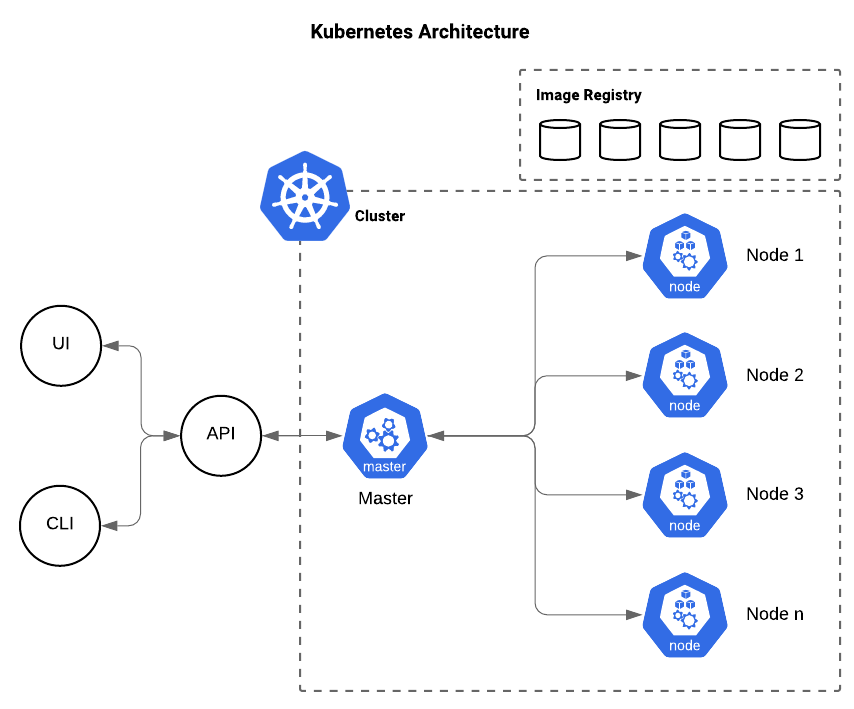
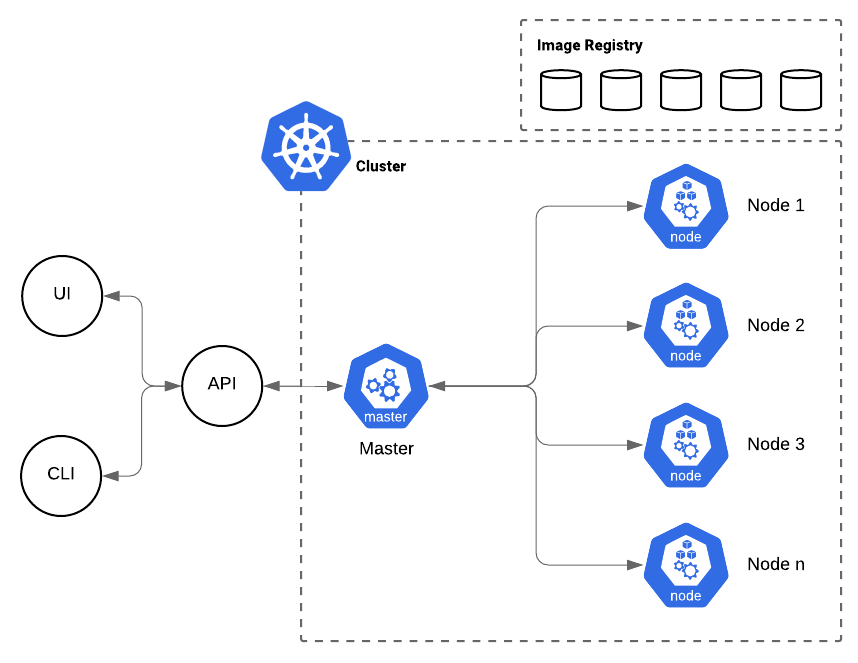
Update images and fix a few typos

diff --git a/manuscript/1-intro.md b/manuscript/1-intro.md
@@ -1,6 +1,6 @@
 # An introduction to Kubernetes
 
-This document provides you with an introduction to Kubernetes, it will introduce you to the components, explain how they fit together, introduce you to many of the core resource concepts and then provide you with a tutorial you can follow through yourself to get a grasp on theses concepts.
+This guide provides you with an introduction to Kubernetes, it will introduce you to the components, explain how they fit together, introduce you to many of the core resource concepts and then provide you with a tutorial you can follow through yourself to get a grasp on theses concepts.
 
 Kubernetes, often abbreviated as K8S, is an orchestration service, designed by Google, for managing distributed systems. Although you can run it on bare metal, the preferred way is using one of the various cloud providers; Kubernetes will take care of provisioning hardware, allowing you to use all available hardware resources as if it were one giant computer. By specifying the resources required by your application Kubernetes will take care of scheduling them to run on hardware with the appropriate resources available.
 
@@ -32,17 +32,17 @@ The architecture of the control plane is shown below.
 
 ![etcd Icon](resources/images/icons/infrastructure_components/etcd-128.png)
 
-The configuration of the cluster is stored as *resource definitions*, this configuration is stored in an etcd cluster. etcd is a strong consistency, high availability, key-value store; it takes care of replicating the state amongst all members of the cluster and resolving conflicts between them. It stored the *desired state* of the cluster and is the *source of truth*.
+The configuration of the cluster is stored as *resource definitions*, this configuration is stored in an etcd cluster. etcd is a strong consistency, high availability, key-value store; it takes care of replicating the state amongst all members of the cluster and resolving conflicts between them. It stores the *desired state* of the cluster and is the *source of truth*.
 
 Although it is a central component of the cluster, you as the operator, and other processes, will never talk to etcd directly. Only one component talks to etcd, that is the API Server.
 
-etcd is not specific to Kubernetes, you can use it for other things (although not the instance used for Kubernetes), so you can [find out more about it on the website](https://etcd.io).
+etcd is not specific to Kubernetes, you can use it for other things (although you should avoid reusing the instance used for Kubernetes), so you can [find out more about it on the website](https://etcd.io).
 
 #### API Server
 
 ![API Server Icon](resources/images/icons/control_plane_components/api-128.png)
 
-The *API Server* is the internal event router for Kubernetes. It is the only component which can directly access *etcd* to store and retrieve resource definitions. It is also the proxy between the command line interface, *kubectl* and the cluster. The CLI talks to the *API Server* exclusively, as do all the other components. The *API Server* simply returns the information from, and stores information in *etcd*; it does nothing else, actually working out what to do is down to other components. It is a stateless component so scales well, typically it would be deployed on the same servers as *etcd*. The *API Server* accepts requests in JSON format.
+The *API Server* is the internal event router for Kubernetes. It is the only component which can directly access *etcd* to store and retrieve resource definitions. It is also the proxy between the command line interface, *kubectl*, and the cluster. The CLI talks to the *API Server* exclusively, as do all the other components. The *API Server* simply returns the information from, and stores information in *etcd*; it does nothing else, actually working out what to do is down to other components. It is a stateless component so scales well, typically it would be deployed on the same servers as *etcd*. The *API Server* accepts requests in JSON format.
 
 #### Scheduler
 
@@ -56,7 +56,7 @@ The *Scheduler* should be deployed redundantly on all the control plane *Nodes*,
 
 ![Kube-Controller Manager Icon](resources/images/icons/control_plane_components/c-m-128.png)
 
-This is the main binary which was mentioned earlier, it is made up of a series of *Controllers*; although they can actually be run seperately, they are typically run as a single binary. While the *Scheduler* takes care of placing *Pods*, the *Controllers* take care of almost everything else. There are a variety of *Controllers*, typically one for each resource, such as the *Deployment Controller*, *StatefulSet Controller*, *Namespace Controller*, *ServiceAccount Controller*, *Job Controller* and a *Pod Garbage Collector Controller*. These are just some of the built-in controllers, but it is actually possible to create custom controllers yourself if you are willing to write some code. There are some *Controllers* you are expected to provide yourself, for instance, although Kubernetes has the concept of an *Ingress* it does not include an *Ingress Controller*.
+This is the main binary which was mentioned earlier, it is made up of a series of *Controllers*; although they can actually be run separately, they are typically run as a single binary. While the *Scheduler* takes care of placing *Pods*, the *Controllers* take care of almost everything else. There are a variety of *Controllers*, typically one for each resource, such as the *Deployment Controller*, *StatefulSet Controller*, *Namespace Controller*, *ServiceAccount Controller*, *Job Controller* and a *Pod Garbage Collector Controller*. These are just some of the built-in controllers, but it is actually possible to create custom controllers yourself if you are willing to write some code. There are some *Controllers* you are expected to provide yourself, for instance, although Kubernetes has the concept of an *Ingress* it does not include an *Ingress Controller*.
 
 Like the *Scheduler*, the *Controllers* are deployed redundantly and elect a master.
 
